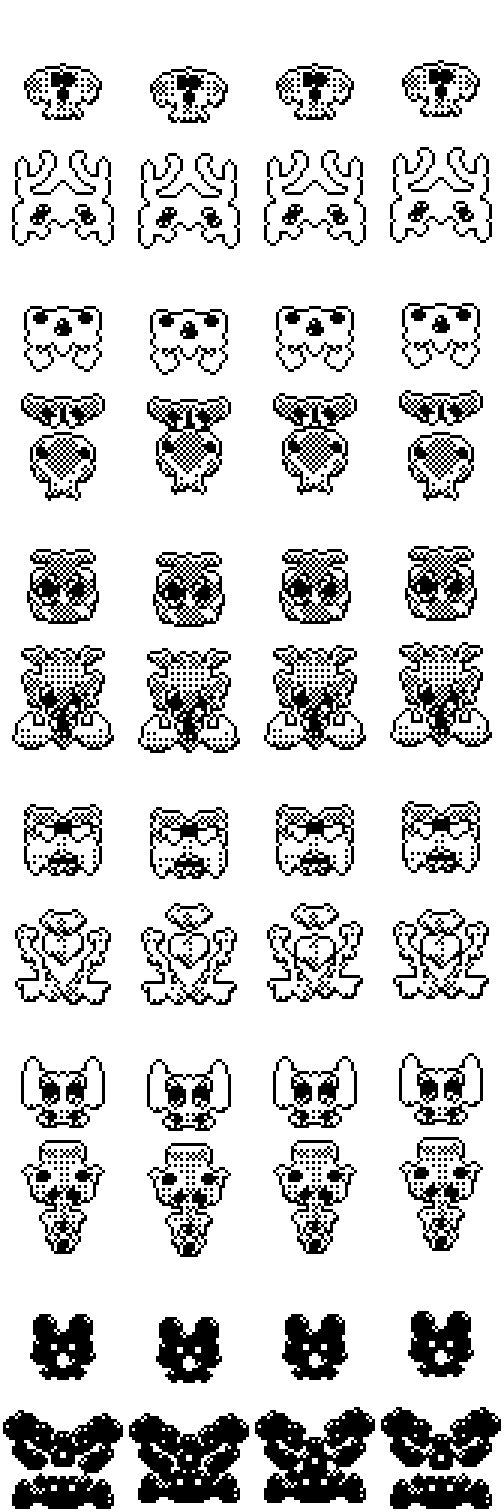
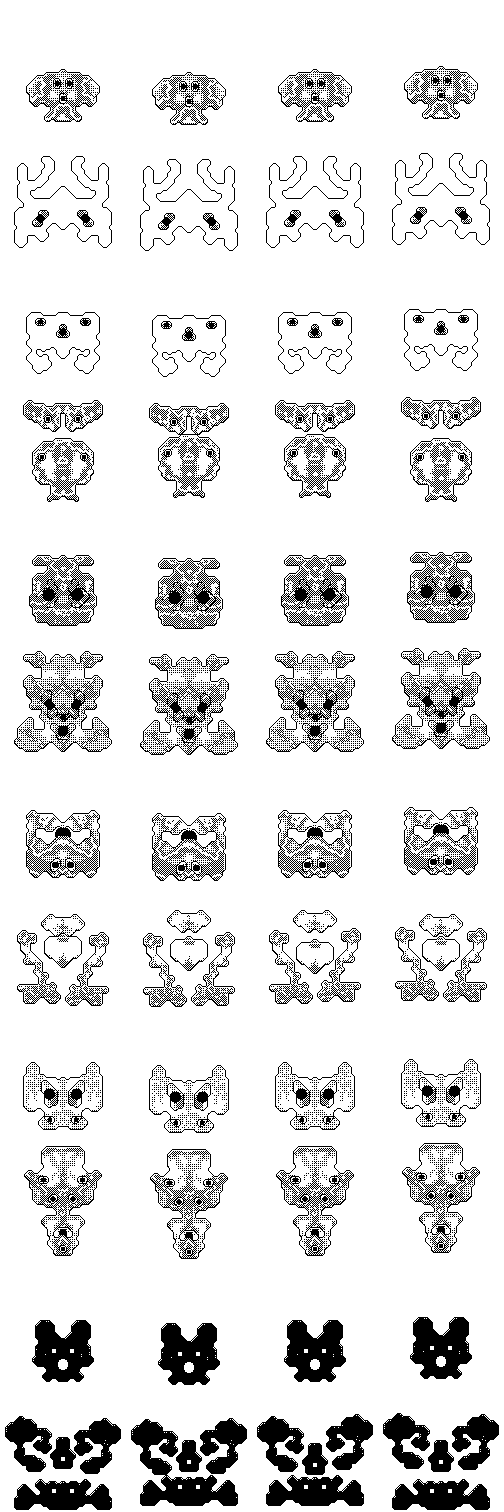
spritegen: detail pass for bigger, finer Znomes
Battle sprites were the same cellular-automata grid drawn with fatter
pixel blocks, so scaling them up only made the blocks coarser. get_groups
now takes detail=N: the finished CA grid is redrawn at N times the
resolution and a majority filter rounds its contours, so the silhouette
stays the seed's own while edges, holes and the noise shading resolve on
a finer grid. Battle renders at detail=3 with 1px cells, same on-screen
size as before but three times the contour and dither resolution; menus
stay at detail=1 and their sprites are byte-identical.

diff --git a/spritegen/generator.py b/spritegen/generator.py
@@ -266,9 +266,38 @@ def _touching(g1, g2):
     return False
 
 
+def _upscale(grid, w, h, factor, smooth):
+    """Redraw the CA grid at `factor` times the resolution and let a
+    majority filter round its contours.  The silhouette survives (the
+    creature is recognisably the same seed) but every edge, hole and
+    shading step is resolved on a finer grid, so the sprite carries real
+    detail instead of bigger blocks."""
+    fw, fh = w * factor, h * factor
+    fine = [[grid[x // factor][y // factor] for y in range(fh)]
+            for x in range(fw)]
+    for _ in range(smooth):
+        out = [col[:] for col in fine]
+        for x in range(fw):
+            for y in range(fh):
+                n = 0
+                for i in (-1, 0, 1):
+                    for j in (-1, 0, 1):
+                        if i == 0 and j == 0:
+                            continue
+                        xx, yy = x + i, y + j
+                        if 0 <= xx < fw and 0 <= yy < fh and fine[xx][yy]:
+                            n += 1
+                if fine[x][y] and n < DEATH_LIMIT:
+                    out[x][y] = False
+                elif not fine[x][y] and n > BIRTH_LIMIT - 1:
+                    out[x][y] = True
+        fine = out
+    return fine, fw, fh
+
+
 def get_sprite(seed, size=30, n_colors=N_COLORS, outline=True, w=None,
                h=None, fill=0.48, walks=2, walk_len=100, ca_steps=N_STEPS,
-               eyes=None):
+               eyes=None, detail=1, smooth=2):
     """Returns a flat list of ((x, y), color) cells; color is an rgb
     tuple, 'outline', or ('eye', rgb) for darkened eye-centre cells.
 
@@ -277,14 +306,14 @@ def get_sprite(seed, size=30, n_colors=N_COLORS, outline=True, w=None,
     retune its parameters."""
     cells = []
     for g in get_groups(seed, size, n_colors, outline, w, h, fill, walks,
-                        walk_len, ca_steps, eyes):
+                        walk_len, ca_steps, eyes, detail, smooth):
         cells.extend(g["cells"])
     return cells
 
 
 def get_groups(seed, size=30, n_colors=N_COLORS, outline=True, w=None,
                h=None, fill=0.48, walks=2, walk_len=100, ca_steps=N_STEPS,
-               eyes=None):
+               eyes=None, detail=1, smooth=2):
     """Like get_sprite but keeps the flood-fill groups separate, the way
     the generator's Godot drawer does: each connected part is its own
     group so it can be animated independently.  Valid negative groups
@@ -295,6 +324,8 @@ def get_groups(seed, size=30, n_colors=N_COLORS, outline=True, w=None,
     h = h or size
     grid = _generate_new(rng, w, h, fill, walks, walk_len)
     grid = _do_steps(grid, w, h, ca_steps)
+    if detail > 1:
+        grid, w, h = _upscale(grid, w, h, detail, smooth)
     scheme = _generate_new_colorscheme(rng, n_colors)
     eye_scheme = _generate_new_colorscheme(rng, n_colors)
     groups, negative_groups = _fill_colors(

diff --git a/spritegen/onebit.py b/spritegen/onebit.py
@@ -47,16 +47,19 @@ class Canvas:
 
 
 def render_frames(seed, out_w, out_h, cell=2, frames=4, dark=False,
-                  **knobs):
+                  detail=1, **knobs):
     """Render a generated creature as idle-animation frames.
 
     Each connected part bobs on its own sine phase (one cell of
     amplitude), sliding over its neighbours like the generator's
-    animated showcase.  Cells are drawn as cell x cell blocks; tones
+    animated showcase.  `detail` grows the creature on a finer grid (see
+    get_groups), so detail=3 with cell=1 is the same size as detail=1
+    with cell=3 but carries three times the contour and shading
+    resolution.  Cells are drawn as cell x cell blocks; tones
     are luminance-quantized to ordered dither (dark=True inverts to a
     mostly-black creature).  Returns a list of Canvas frames,
     bottom-centre aligned."""
-    groups = get_groups(seed, **knobs)
+    groups = get_groups(seed, detail=detail, **knobs)
     if not groups:
         return [Canvas(out_w, out_h) for _ in range(frames)]
 
@@ -75,7 +78,8 @@ def render_frames(seed, out_w, out_h, cell=2, frames=4, dark=False,
     min_y = min(p[1] for p in all_pts)
     max_y = max(p[1] for p in all_pts)
     ox = (out_w - (max_x - min_x + 1) * cell) // 2 - min_x * cell
-    oy = out_h - cell - (max_y + 2) * cell  # bottom-aligned, wobble margin
+    # bottom-aligned, leaving the wobble amplitude as margin
+    oy = out_h - (max_y + 2 + detail) * cell
 
     # big parts drawn first so small parts slide over them
     order = sorted(range(len(groups)),
@@ -85,7 +89,7 @@ def render_frames(seed, out_w, out_h, cell=2, frames=4, dark=False,
         c = Canvas(out_w, out_h)
         for gi in order:
             g = groups[gi]
-            amp = 1
+            amp = detail
             phase = gi * 2.399
             dy = round(amp * math.sin(2 * math.pi * f / frames + phase))
             for (x, y), col in g["cells"]:

diff --git a/tools/art_znomes.py b/tools/art_znomes.py
@@ -16,9 +16,9 @@ sys.path.insert(0, os.path.dirname(os.path.dirname(os.path.abspath(__file__))))
 
 from spritegen import render_frames
 
-SIZE = 96          # menus, kodex, title: 2px cells
-BATTLE_SIZE = 126  # battle: same creatures rendered with 3px cells
-BATTLE_CELL = 3
+SIZE = 96           # menus, kodex, title: 2px cells
+BATTLE_SIZE = 126   # battle: same creatures at 3x grid detail, 1px cells
+BATTLE_DETAIL = 3
 FRAMES = 4
 
 # name, seed, dark, grid knobs
@@ -40,9 +40,9 @@ SPECIES = [
 ORDER = [name for name, _s, _d, _k in SPECIES]
 
 
-def _frames(seed, dark, knobs, size, cell=2):
-    return render_frames(seed, size, size, cell=cell, frames=FRAMES, dark=dark,
-                         **knobs)
+def _frames(seed, dark, knobs, size, cell=2, detail=1):
+    return render_frames(seed, size, size, cell=cell, detail=detail,
+                         frames=FRAMES, dark=dark, **knobs)
 
 
 ZNOMES = [(name, lambda s=seed, d=dark, k=knobs: _frames(s, d, k, SIZE))
@@ -50,6 +50,6 @@ ZNOMES = [(name, lambda s=seed, d=dark, k=knobs: _frames(s, d, k, SIZE))
 
 ZNOMES_BATTLE = [
     (name, lambda s=seed, d=dark, k=knobs: _frames(s, d, k, BATTLE_SIZE,
-                                                   BATTLE_CELL))
+                                                   1, BATTLE_DETAIL))
     for name, seed, dark, knobs in SPECIES
 ]
